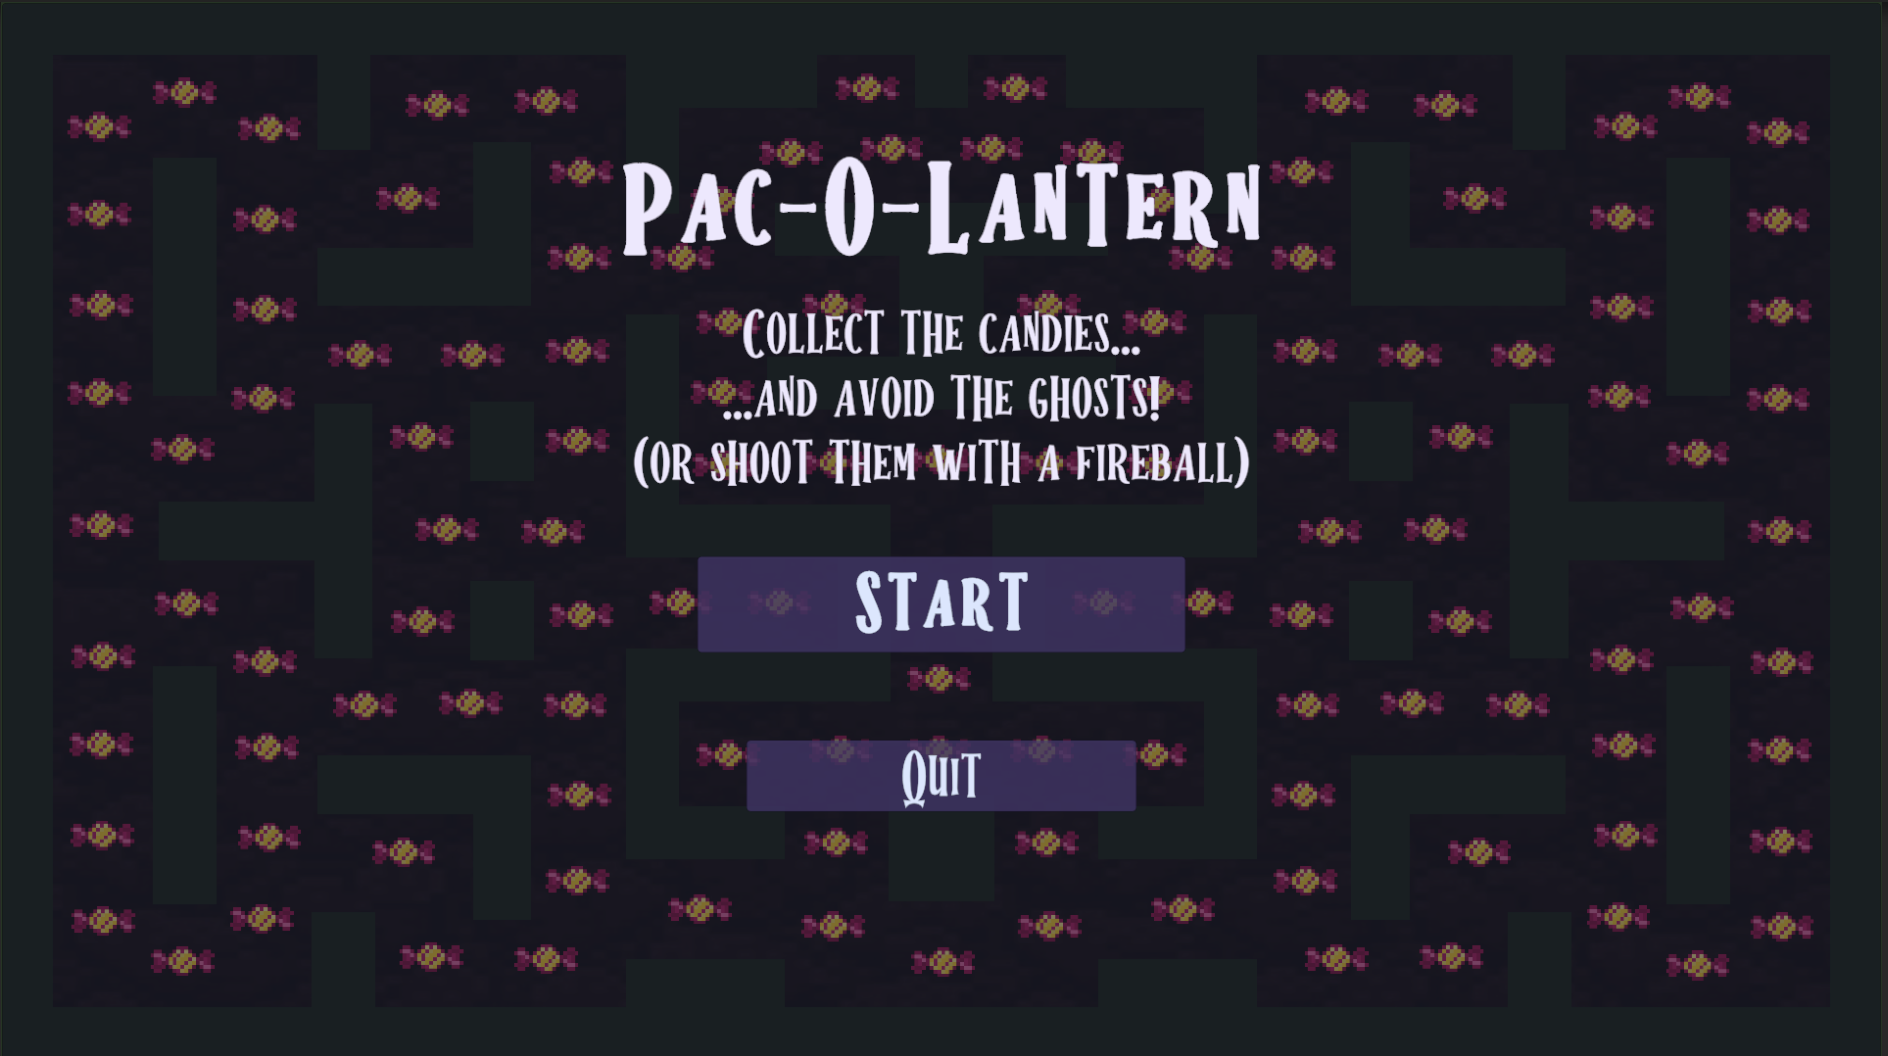
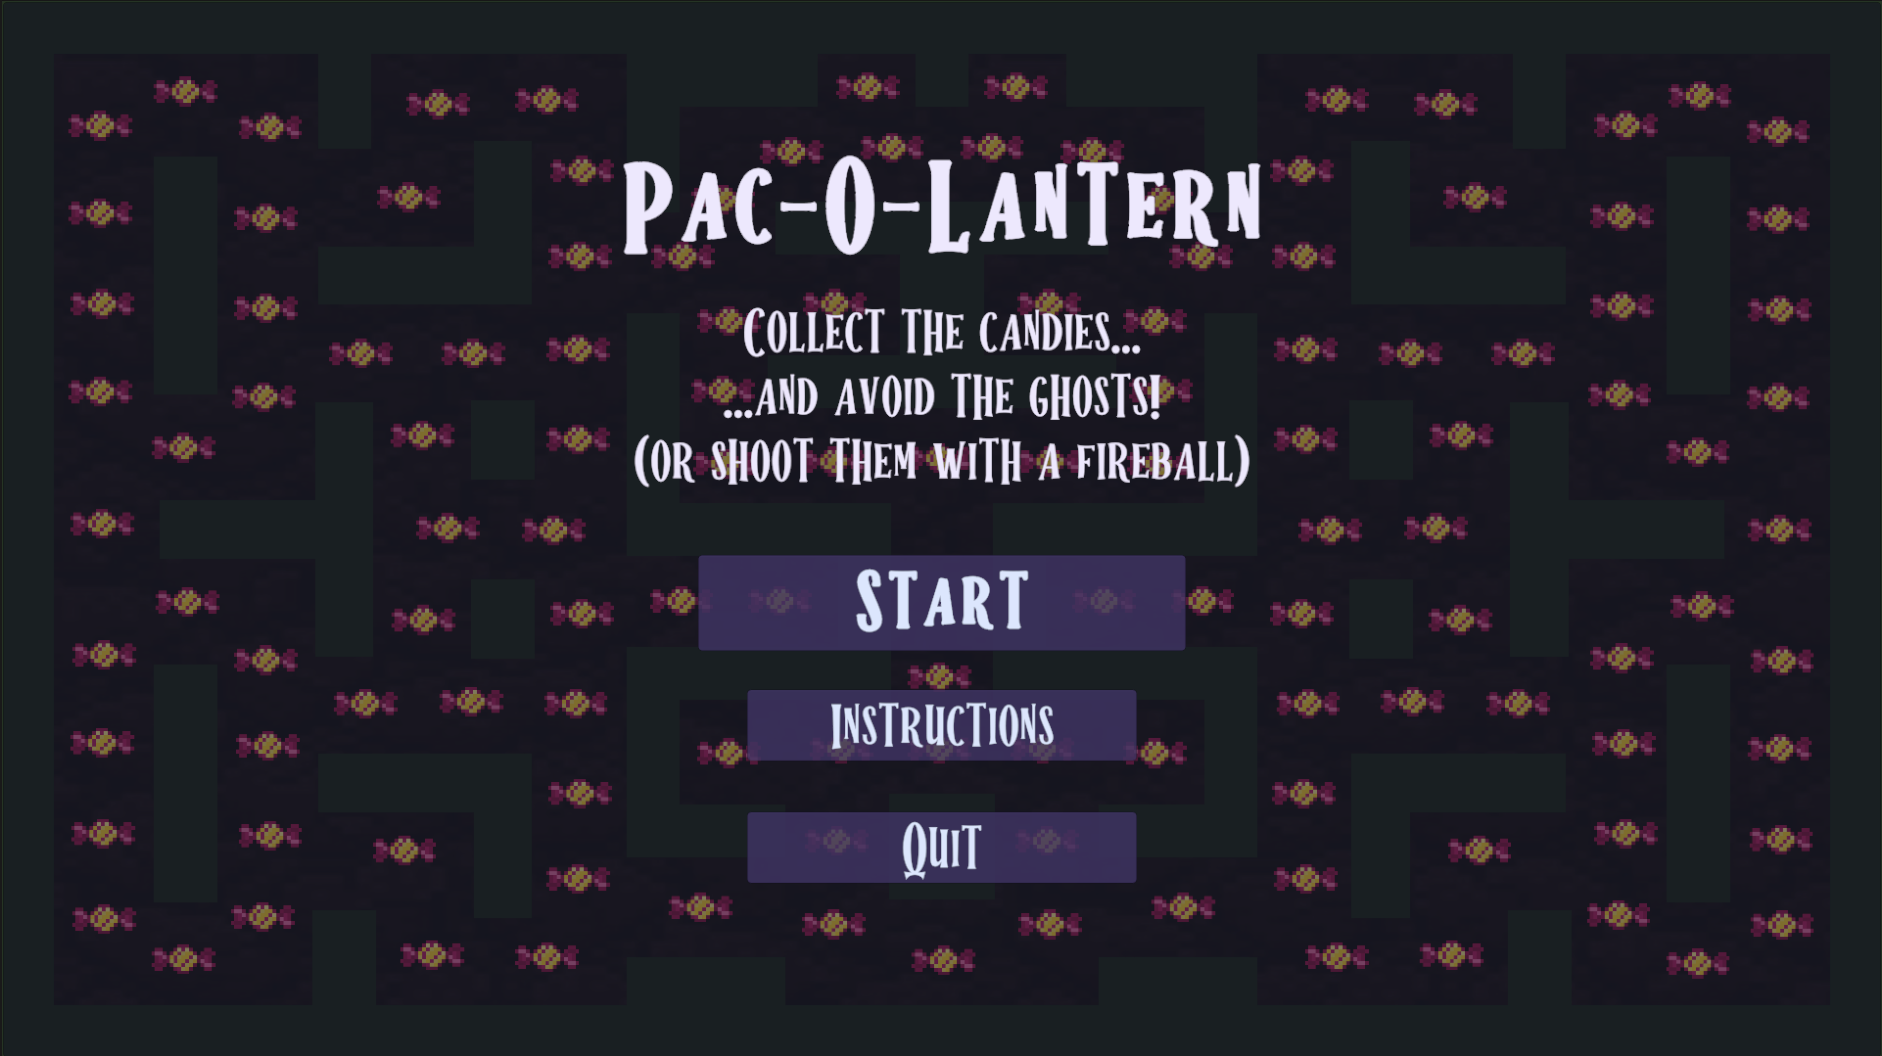
readme

diff --git a/README.md b/README.md
@@ -1,30 +1,37 @@
 # Pac-O-Lantern
+**Last updated: Oct 29, 2023**
 
-#### Last updated: Oct 29, 2023
+## Boo!
+Pac-O-Lantern is a 2D Arcade Game that I built as a weekly assignment for my COMP_SCI 376-0 Game Design class. It is a halloween-themed game loosely based on Pac-Man.
 
-Pac-O-Lantern is a 2D Arcade Game that I built as a weekly assignment for my CS-376 Game Design class. It is a halloween-themed game loosely based on Pac-Man.
-
-The player is a pumpkin, whose goal is to collect all the candies on the map.
-
-Ghosts will randomly spawn and chase after you – you can either try to avoid them, or shoot them will fireballs.
+The player is a pumpkin, whose goal is to collect all the candies on the map. However, ghosts will randomly spawn and chase after you – you can either try to avoid them, or shoot them will fireballs!
 
 You can either win by collecting all the candies, or lose by losing all three lives being hit by ghosts.
-
-~~
-
-The game is intended to be played with a controller, but it is configured for either controller or keyboard.
-
-To play, open the project in the Unity Editor. Then open the "Menu" scene, from which you can start the game.
-
-There are more detailed instructions in the INSTRUCTIONS.pdf file.
 
 I really enjoyed making this game! I probably spent more time on it than I should've for just a weekly assignment, but I was excited to have more freedom and choice in the UI and gameplay design. I learned how to utilize audio and many more UI elements, as well as game mechanics such as scene management and so on.
 
 I only made one level for my assignment, but hopefully one day I can add to it.
 
-### Images
+## Gameplay
+
+The game is intended to be played with a controller, but it is configured for either controller or keyboard.
+
+To play, open the project in the Unity Editor. It uses Unity 2022.3.10f1.
+
+Then, open the "Menu" scene, from which you can start the game.
+
+A build is also available to download in the "Build" folder of the repository, if you don't want to look at the code. Download and unzip the file, then run the application.
+
+There are more detailed gameplay instructions in the INSTRUCTIONS.pdf file.
+
+
+
+## Images
 ![Menu](External/Menu.png)
 *Main Menu*
+
+![Menu](External/Instructions.png)
+*Instructions*
 
 ![gameplay](External/Gameplay.png)
 *Gameplay*
@@ -38,7 +45,7 @@ I only made one level for my assignment, but hopefully one day I can add to it.
 ![Loss](External/Loss.png)
 *Loss screen and message*
 
-### Citations
+## Citations
 Pumpkin Sprite:
 https://opengameart.org/content/pumpkin  
 Ghost Sprite:
